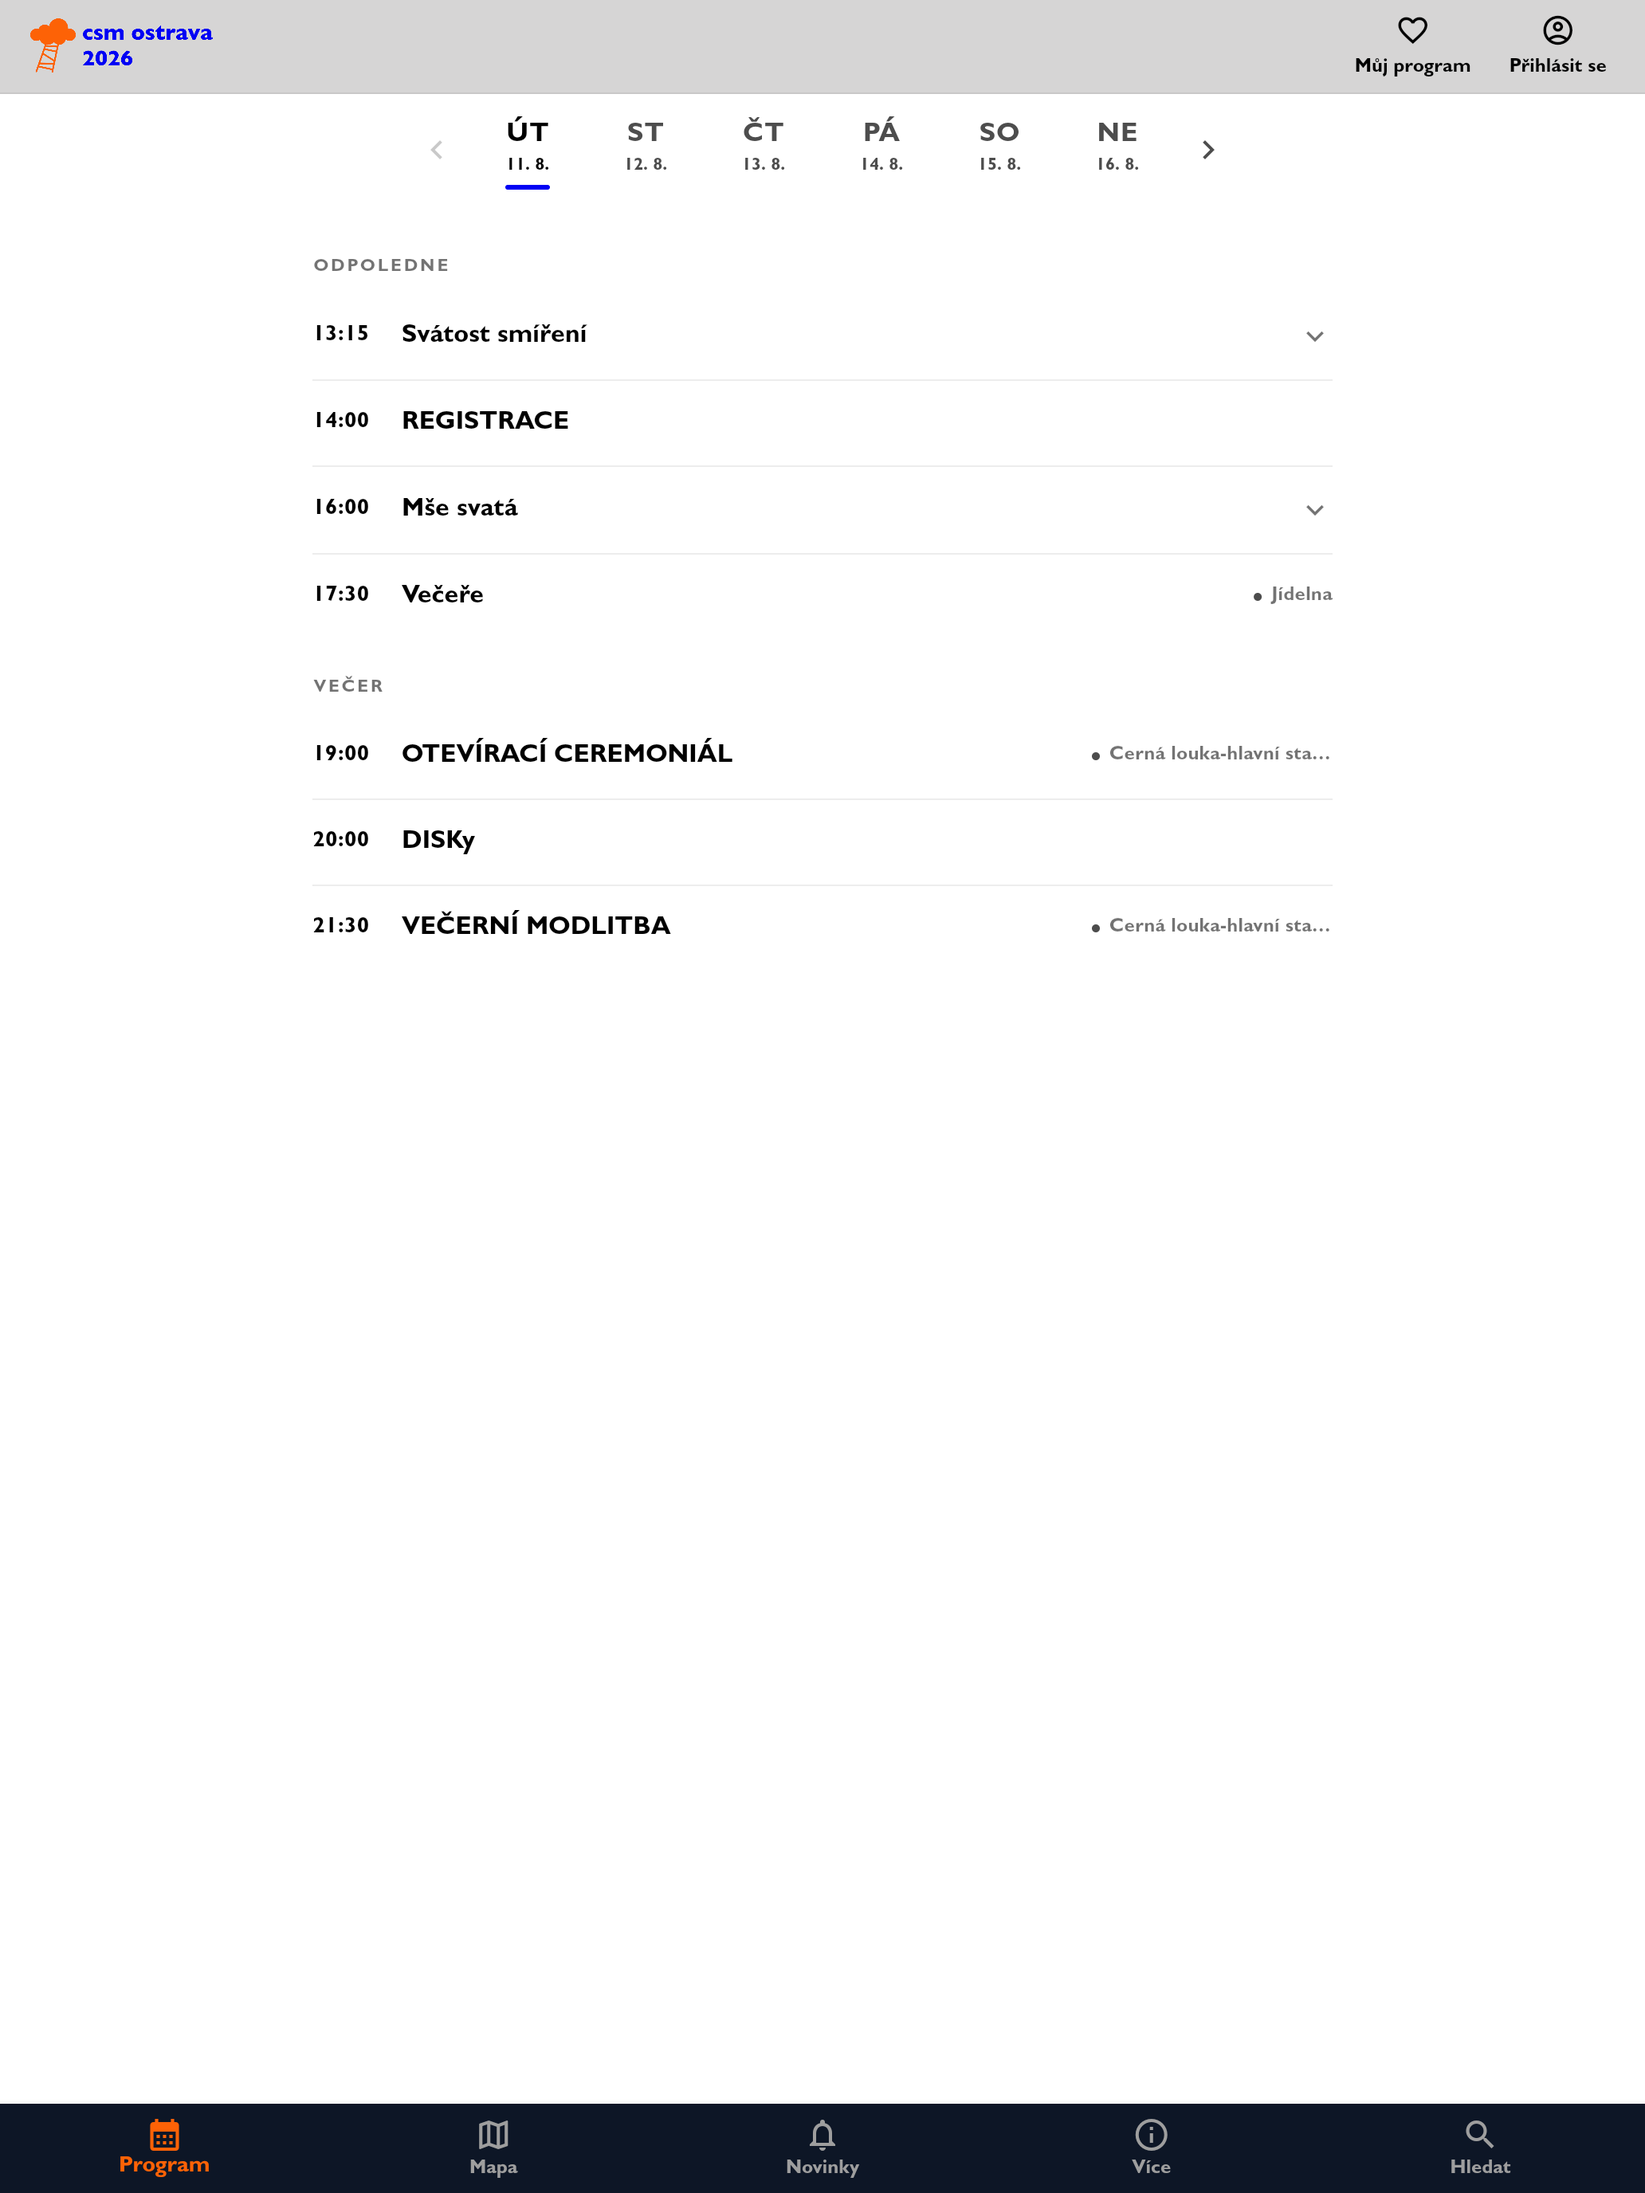
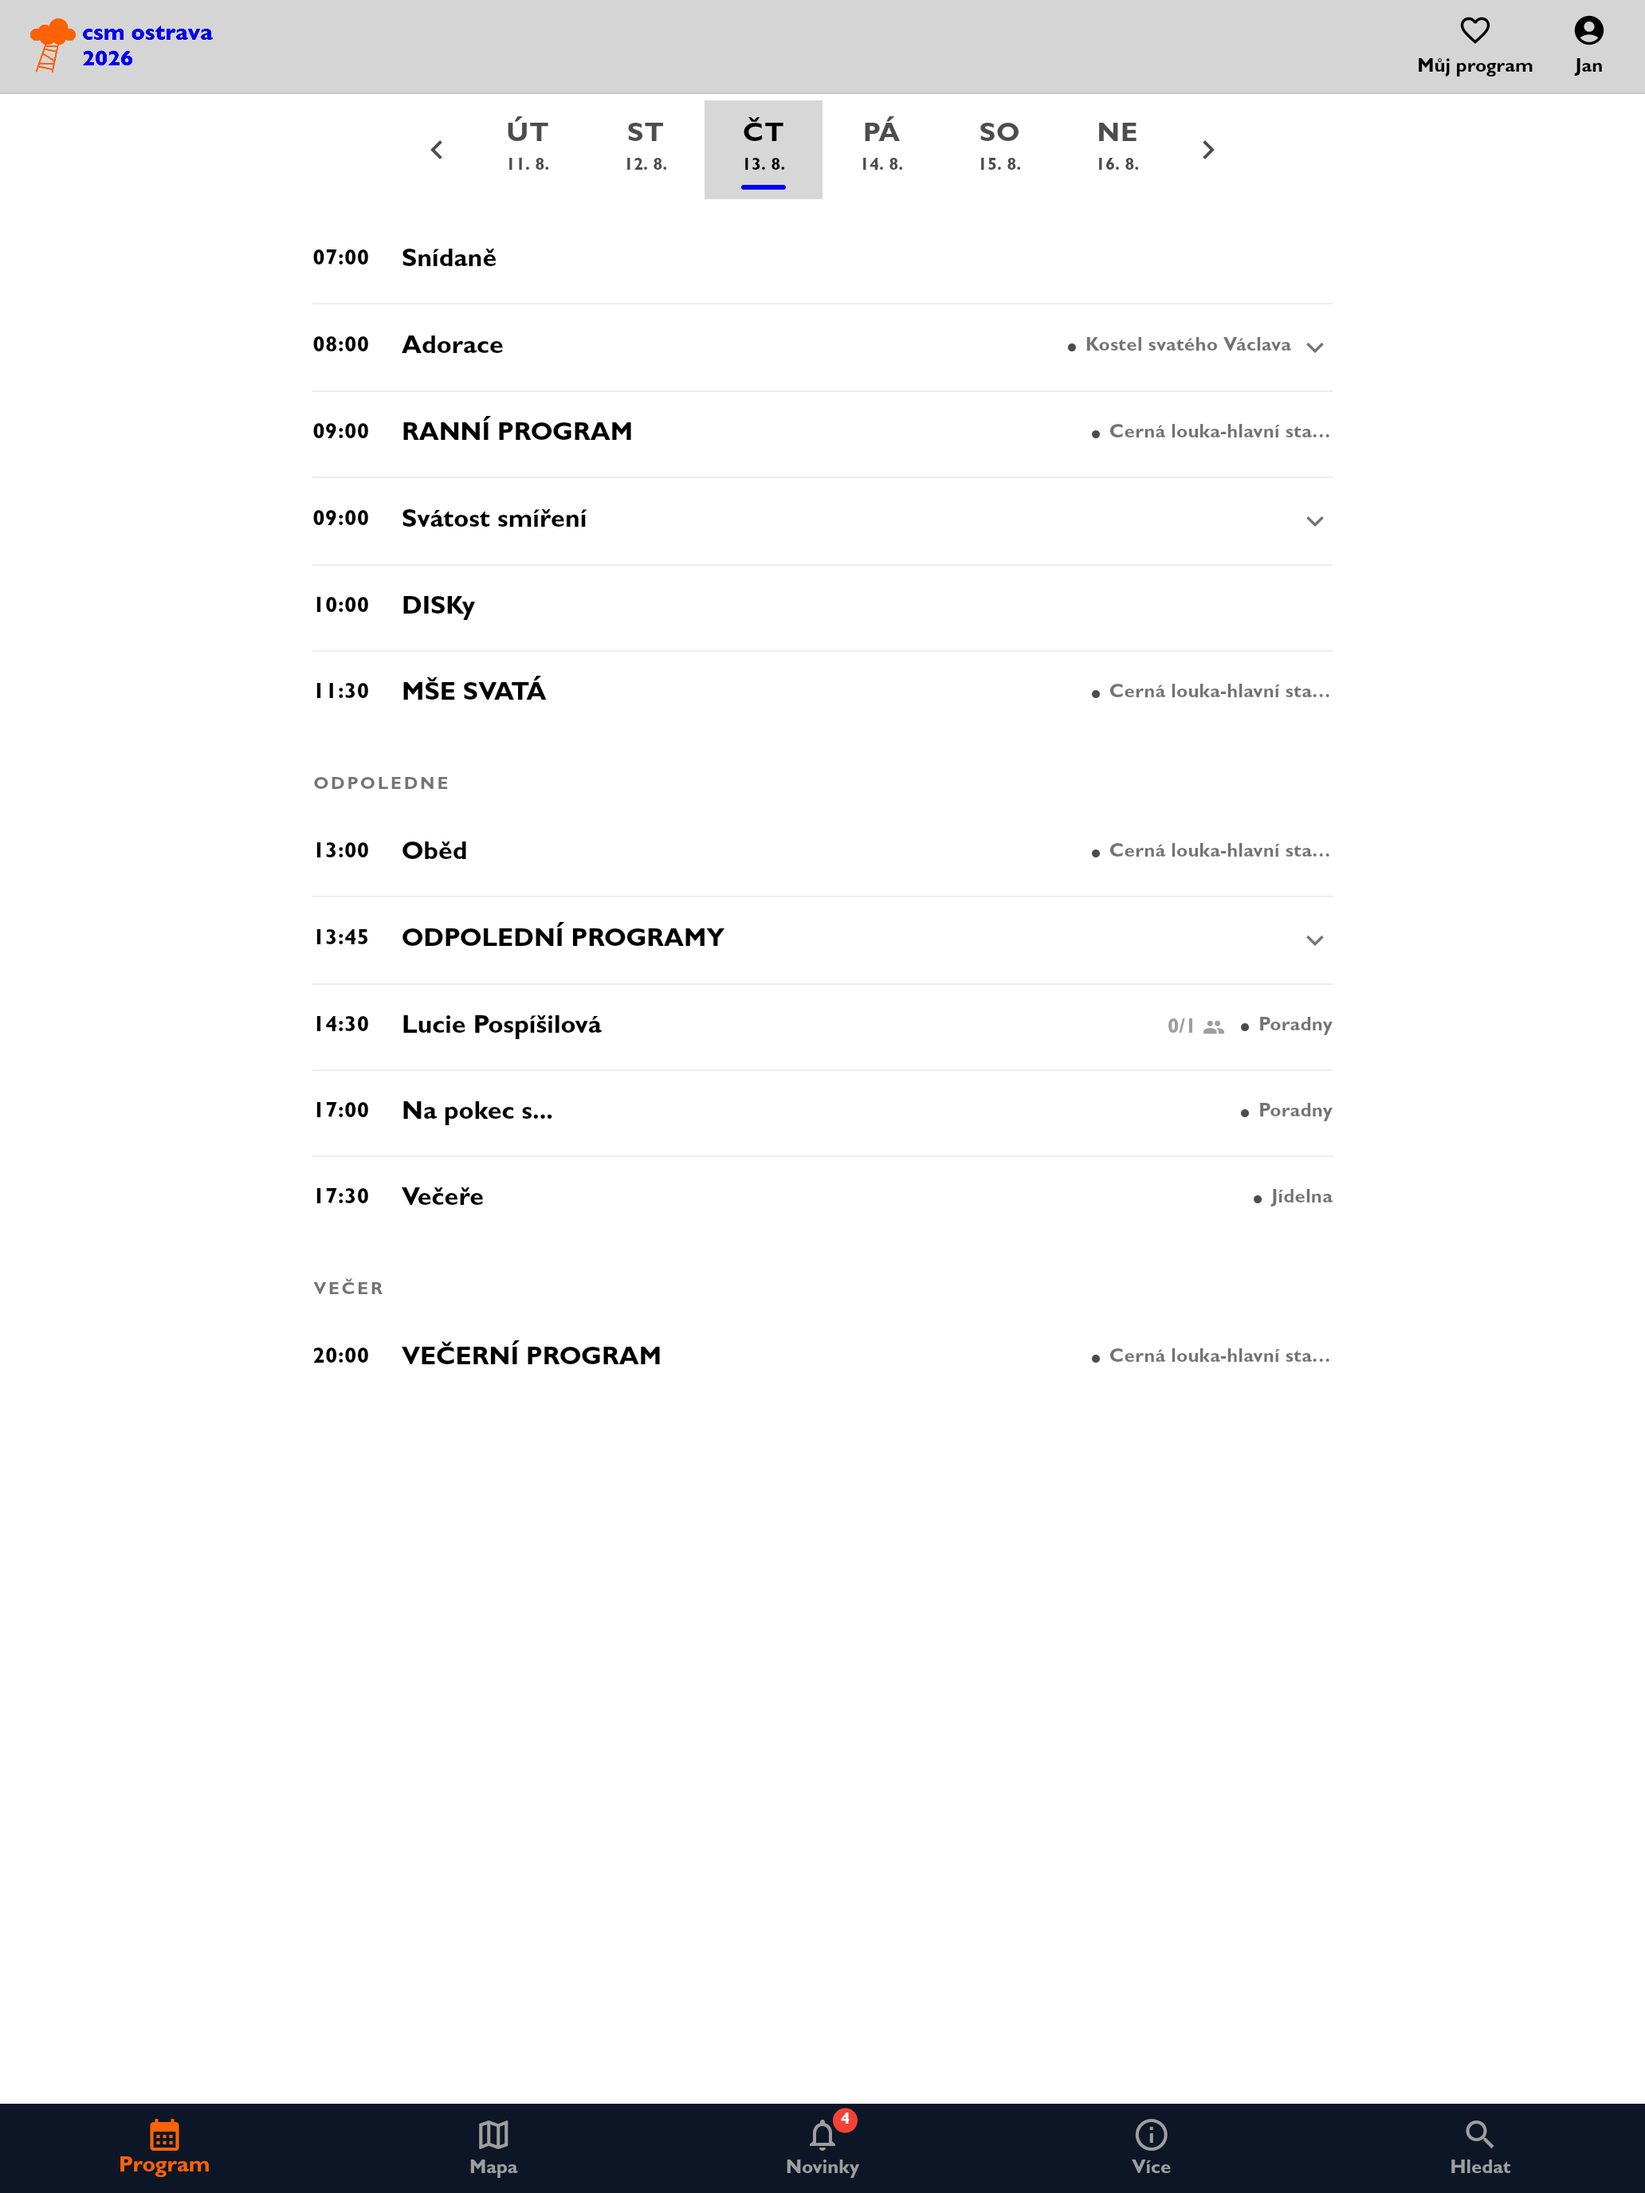
docs(store): refresh CSM listing screenshots

diff --git a/repo-data/store-screenshots/csm-2026/preview.html b/repo-data/store-screenshots/csm-2026/preview.html
@@ -166,7 +166,7 @@
       <div class="grid tablet-grid featured">
         <figure>
           <a href="source-tablet-apple/04-program.png"><img src="source-tablet-apple/04-program.png" alt="Program na tabletu" /></a>
-          <figcaption>Tablet 1 — program</figcaption>
+          <figcaption>Tablet 1 — nabitý čtvrteční program</figcaption>
         </figure>
         <figure>
           <a href="source-tablet-apple/03-map-dark-route.png"><img src="source-tablet-apple/03-map-dark-route.png" alt="Tmavá Pražská trasa na tabletu" /></a>
@@ -180,13 +180,21 @@
           <a href="source-tablet-apple/01-information-photo.png"><img src="source-tablet-apple/01-information-photo.png" alt="Informační stránka s fotografií na tabletu" /></a>
           <figcaption>Tablet 4 — centrum mládeže Praha</figcaption>
         </figure>
+        <figure>
+          <a href="source-tablet-apple/05-my-program-full.png"><img src="source-tablet-apple/05-my-program-full.png" alt="Zaplněný Můj program na iPadu" /></a>
+          <figcaption>Tablet 5 — zaplněný Můj program Jana</figcaption>
+        </figure>
+        <figure>
+          <a href="source-tablet-apple/06-program-saturday.png"><img src="source-tablet-apple/06-program-saturday.png" alt="Sobotní program na iPadu" /></a>
+          <figcaption>Tablet 6 — bohatý sobotní program</figcaption>
+        </figure>
       </div>
 
       <h2>Tablet — Google Play <span class="badge">1440 × 2560 · 9:16</span></h2>
       <div class="grid tablet-grid featured">
         <figure>
           <a href="source-tablet-google/01-program.png"><img src="source-tablet-google/01-program.png" alt="Program pro tablet na Google Play" /></a>
-          <figcaption>Google tablet 1 — program</figcaption>
+          <figcaption>Google tablet 1 — nabitý čtvrteční program</figcaption>
         </figure>
         <figure>
           <a href="source-tablet-google/02-map-dark-route.png"><img src="source-tablet-google/02-map-dark-route.png" alt="Pražská trasa pro tablet na Google Play" /></a>
@@ -199,6 +207,14 @@
         <figure>
           <a href="source-tablet-google/04-information-photo.png"><img src="source-tablet-google/04-information-photo.png" alt="Informace s fotografií pro tablet na Google Play" /></a>
           <figcaption>Google tablet 4 — centrum mládeže Praha</figcaption>
+        </figure>
+        <figure>
+          <a href="source-tablet-google/05-my-program-full.png"><img src="source-tablet-google/05-my-program-full.png" alt="Zaplněný Můj program pro Google tablet" /></a>
+          <figcaption>Google tablet 5 — zaplněný Můj program Jana</figcaption>
+        </figure>
+        <figure>
+          <a href="source-tablet-google/06-program-saturday.png"><img src="source-tablet-google/06-program-saturday.png" alt="Sobotní program pro Google tablet" /></a>
+          <figcaption>Google tablet 6 — bohatý sobotní program</figcaption>
         </figure>
       </div>
 

diff --git a/repo-data/store-screenshots/csm-2026/README.md b/repo-data/store-screenshots/csm-2026/README.md
@@ -33,20 +33,22 @@ scale factor. Výsledné PNG mají 1179 × 2556 px.
 
 ## Tabletové zdroje
 
-Adresář `source-tablet-apple/` obsahuje čtyři skutečné obrazovky aplikace v
+Adresář `source-tablet-apple/` obsahuje šest skutečných obrazovek aplikace v
 portrétním rozměru 2064 × 2752 px pro 13″ iPad:
 
 - `01-information-photo.png` — informace s fotografií
 - `02-lecture-speaker-photo.png` — přednáška s fotografií řečníka
 - `03-map-dark-route.png` — tmavě hnědá trasa Pražské arcidiecéze
-- `04-program.png` — hlavní program
+- `04-program.png` — nabitý čtvrteční program
+- `05-my-program-full.png` — zaplněný Můj program přihlášeného Jana
+- `06-program-saturday.png` — bohatý sobotní program
 
 Exportní rozměry a způsob přípravy odvozených verzí jsou v `store-formats.json`.
 Apple používá výše uvedený nativní 13″ iPad formát. Pro Google Play se z
 marketingové kompozice exportuje samostatný portrét 1440 × 2560 px (9:16), bez
 ořezu či deformace skutečného UI.
 
-Adresář `source-tablet-google/` už obsahuje čtyři odpovídající skutečné
+Adresář `source-tablet-google/` už obsahuje šest odpovídajících skutečných
 obrazovky aplikace v rozměru 1440 × 2560 px. Stejná sada je použitelná pro 7″ i
 10″ tabletovou sekci Play Console:
 
@@ -54,14 +56,17 @@ obrazovky aplikace v rozměru 1440 × 2560 px. Stejná sada je použitelná pro 
 - `02-map-dark-route.png`
 - `03-lecture-speaker-photo.png`
 - `04-information-photo.png`
+- `05-my-program-full.png`
+- `06-program-saturday.png`
 
 Pro screenshoty přihlášených stavů je použit schválený běžný účastnický účet
 `test@test.com` s profilem Jan Novák. Účet nemá redakční ani administrátorská
 oprávnění.
 
-Jan je pro demonstrační stav přihlášený na čtyři kapacitní programy od středy
-do soboty. Registrace prošly stejnými kapacitními, časovými a kolizními pravidly
-jako běžné uživatelské přihlášení.
+Jan je pro demonstrační stav přihlášený na šest kapacitních programů od středy
+do soboty. Nově přibyly „Poklad k odhalení“ ve čtvrtek a „Jaké vzdělání
+potřebujeme v době AI, aby to nebolelo?“ v sobotu. Registrace prošly stejnými
+kapacitními, časovými a kolizními pravidly jako běžné uživatelské přihlášení.
 
 ## Marketingový koncept
 
